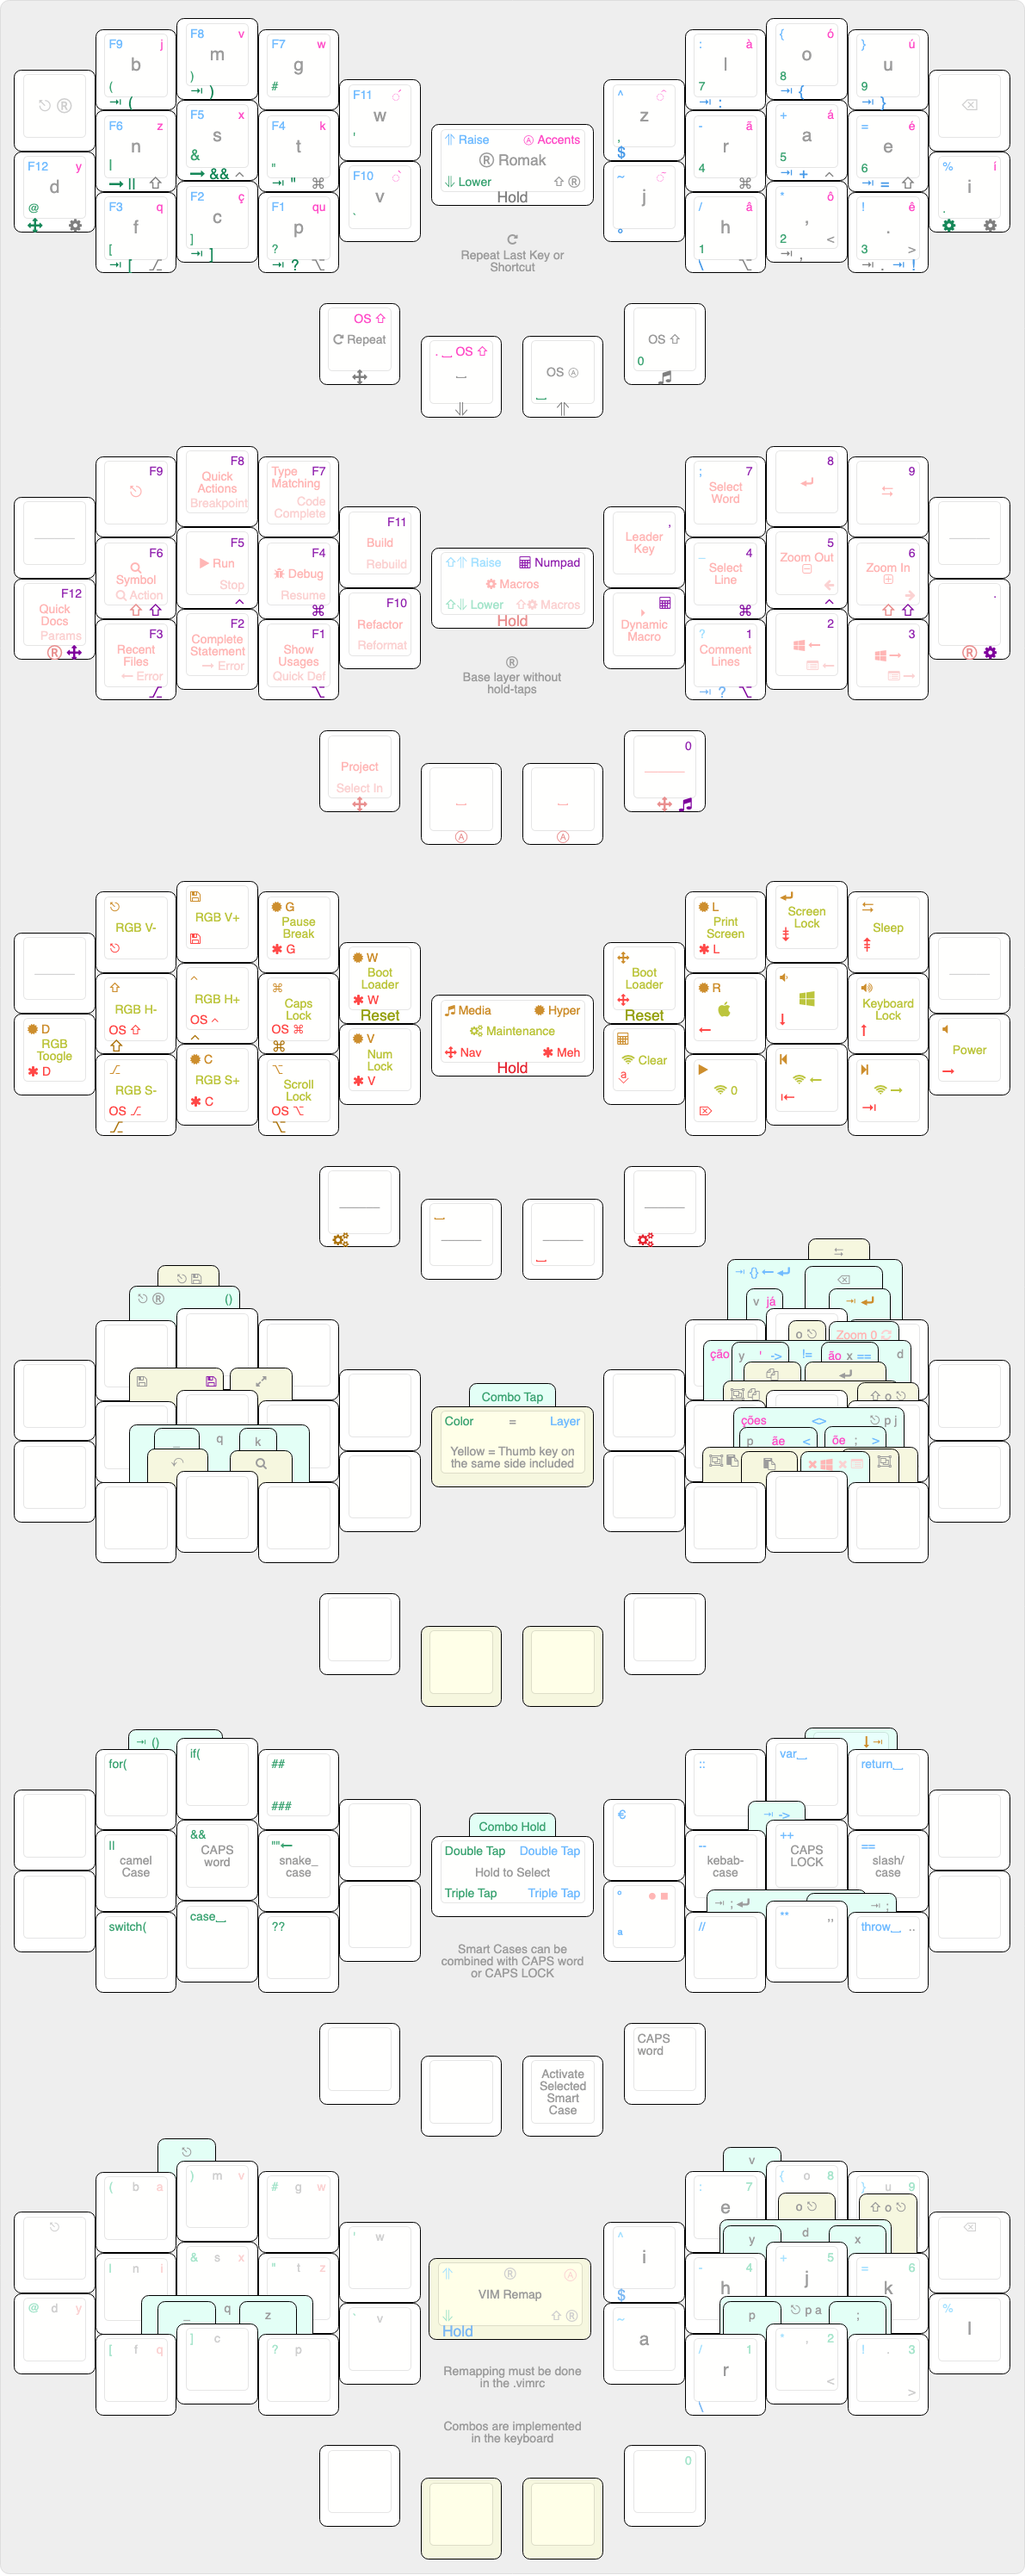
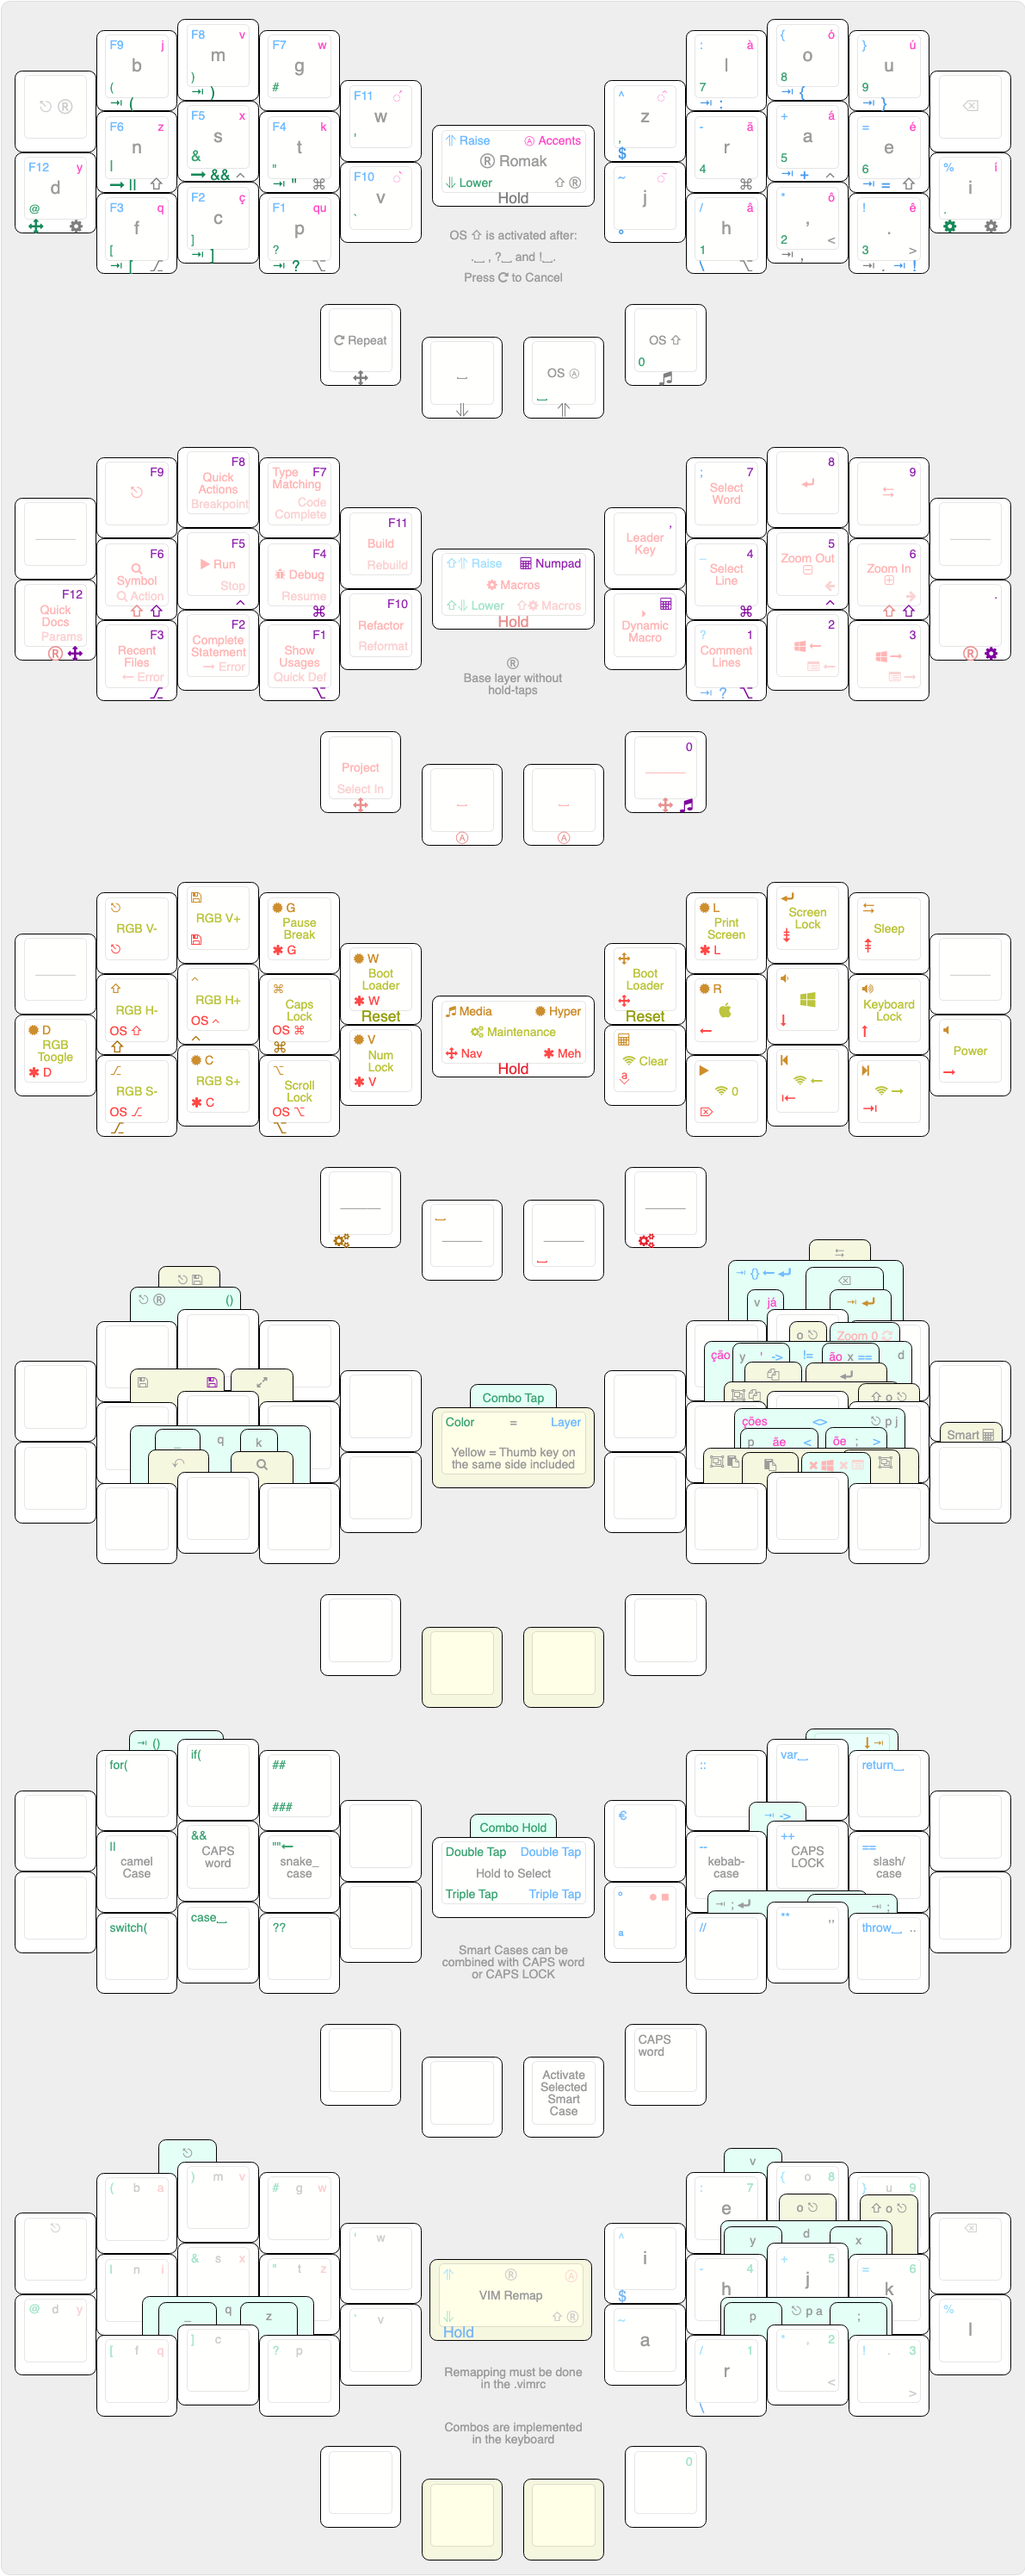
reimplement sentence case and implement numword

diff --git a/src/qmk/users/rafaelromao/features/tapdance.c b/src/qmk/users/rafaelromao/features/tapdance.c
@@ -370,6 +370,8 @@ void td_ques(tap_dance_state_t *state, void *user_data) {
     switch (tap_state.state) {
         case TD_SINGLE_TAP:
             tap_code16(KC_QUES);
+            set_oneshot_layer(_SEN_CASE, ONESHOT_START);
+            reset_oneshot_timer();
             break;
         case TD_DOUBLE_SINGLE_TAP:
         case TD_DOUBLE_TAP:
@@ -379,6 +381,8 @@ void td_ques(tap_dance_state_t *state, void *user_data) {
         case TD_SINGLE_HOLD:
             tap_code(KC_END);
             tap_code16(KC_QUES);
+            set_oneshot_layer(_SEN_CASE, ONESHOT_START);
+            reset_oneshot_timer();
             break;
         default:
             break;
@@ -424,10 +428,14 @@ void td_not(tap_dance_state_t *state, void *user_data) {
     switch (tap_state.state) {
         case TD_SINGLE_TAP:
             tap_code16(KC_EXLM);
+            set_oneshot_layer(_SEN_CASE, ONESHOT_START);
+            reset_oneshot_timer();
             break;
         case TD_SINGLE_HOLD:
             tap_code(KC_END);
             tap_code16(KC_EXLM);
+            set_oneshot_layer(_SEN_CASE, ONESHOT_START);
+            reset_oneshot_timer();
             break;
         case TD_DOUBLE_TAP:
             SEND_STRING("throw ");
@@ -444,10 +452,12 @@ void td_comm(tap_dance_state_t *state, void *user_data) {
             tap_code(KC_COMM);
             break;
         case TD_DOUBLE_SINGLE_TAP:
+        case TD_DOUBLE_TAP:
             tap_code(KC_COMM);
             tap_code(KC_COMM);
             break;
-        case TD_DOUBLE_TAP:
+        case TD_TRIPLE_TAP:
+            tap_code(KC_COMM);
             tap_code(KC_COMM);
             tap_code(KC_COMM);
             break;
@@ -464,8 +474,9 @@ void td_dot(tap_dance_state_t *state, void *user_data) {
     tap_state.state = dance_state(state);
     switch (tap_state.state) {
         case TD_SINGLE_TAP:
-        case TD_DOUBLE_HOLD:
             tap_code(KC_DOT);
+            set_oneshot_layer(_SEN_CASE, ONESHOT_START);
+            reset_oneshot_timer();
             break;
         case TD_DOUBLE_SINGLE_TAP:
         case TD_DOUBLE_TAP:
@@ -480,6 +491,8 @@ void td_dot(tap_dance_state_t *state, void *user_data) {
         case TD_SINGLE_HOLD:
             tap_code16(KC_END);
             tap_code(KC_DOT);
+            set_oneshot_layer(_SEN_CASE, ONESHOT_START);
+            reset_oneshot_timer();
             break;
         default:
             break;

diff --git a/src/qmk/users/rafaelromao/definitions/keymap_blocks.h b/src/qmk/users/rafaelromao/definitions/keymap_blocks.h
@@ -52,8 +52,7 @@
 #define ___________________ACCENT_L1_________           _______ , KC_J    , KC_V    , KC_W
 #define ___________________ACCENT_L2___________________ KC_Y    , KC_Z    , KC_X    , KC_K    , KC_QUOT
 #define           _________ACCENT_L3___________________           KC_Q    , MC_SQ_C , MC_QU   , KC_GRV 
-#define                               ____ACCENT_L4____                               OS_LSFT , MC_NSEN
-#define                               ____FIXED_ACC_L4_                               OS_LSFT , KC_SPC
+#define                               ____ACCENT_L4____                               _______ , _______
 
 #define           _________ACCENT_R1___________________           MC_GV_A , MC_SQ_O , MC_SQ_U , _______
 #define ___________________ACCENT_R2___________________ KC_CIRC , MC_TL_A , MC_SQ_A , MC_SQ_E , MC_SQ_I
@@ -79,6 +78,16 @@
 #define ___________________RAISE_R2____________________ TD_DLR  , KC_MINS , TD_PLUS , TD_EQL  , KC_PERC
 #define ___________________RAISE_R3__________           TD_TILD , TD_SLSH , KC_ASTR , TD_NOT   
 #define ____RAISE_R4_____                               _______ , _______
+
+#define ___________________SEN_CASE____L1____           _______ , _______ , _______ , _______ 
+#define ___________________SEN_CASE____L2______________ _______ , _______ , _______ , _______ , _______
+#define           _________SEN_CASE____L3______________           _______ , _______ , _______ , _______
+#define                               __SEN_CASE____L4_                               MC_CANC , LOW_NSE
+
+#define           _________SEN_CASE____R1______________           _______ , _______ , _______ , _______
+#define ___________________SEN_CASE____R2______________ _______ , _______ , _______ , _______ , _______
+#define ___________________SEN_CASE____R3____           _______ , _______ , _______ , _______ 
+#define __SEN_CASE____R4_                               _______ , _______
 
 #define ___________________MEDIA_L1__________           _______ , MC_ESC  , MC_SAVE , HYPR_G  
 #define ___________________MEDIA_L2____________________ HYPR_D  , KC_LSFT , KC_LCTL , KC_LGUI , HYPR_W 

diff --git a/src/qmk/keyboards/kprepublic/bm40hsrgb/keymaps/rafaelromao/keymap.c b/src/qmk/keyboards/kprepublic/bm40hsrgb/keymaps/rafaelromao/keymap.c
@@ -98,6 +98,17 @@ const uint16_t PROGMEM keymaps[][MATRIX_ROWS][MATRIX_COLS] = {
       XXXXXXX , XXXXXXX , XXXXXXX , ____RAISE_L4_____ ,      XXXXXXX      , ____RAISE_R4_____ , XXXXXXX , XXXXXXX , XXXXXXX),
  // |_______________________________________________________________________________________________________________________|
 
+     [_SEN_CASE] = LAYOUT_wrapper(
+ // |_______________________________________________________________________________________________________________________|
+      ___________________SEN_CASE____L1____ , XXXXXXX , XXXXXXX , XXXXXXX , XXXXXXX , _________SEN_CASE____R1______________ ,
+ // |---------+---------+---------+---------+---------+---------+---------+---------+---------+---------+---------+---------|
+      ___________________SEN_CASE____L2______________ , XXXXXXX , XXXXXXX , ___________________SEN_CASE____R2______________ ,
+ // |---------+---------+---------+---------+---------+---------+---------+---------+---------+---------+---------+---------|
+      XXXXXXX , _________SEN_CASE____L3______________ , XXXXXXX , XXXXXXX , ___________________SEN_CASE____R3____ , XXXXXXX ,
+ // |---------+---------+---------+---------+---------+---------+---------+---------+---------+---------+---------+---------|
+      XXXXXXX , XXXXXXX , XXXXXXX , __SEN_CASE____L4_ ,      XXXXXXX      , __SEN_CASE____R4_ , XXXXXXX , XXXXXXX , XXXXXXX),
+ // |_______________________________________________________________________________________________________________________|
+
      [_FIXED_NAV] = LAYOUT_wrapper(
  // |_______________________________________________________________________________________________________________________|
       ___________________NAVIGATION_L1_____ , XXXXXXX , XXXXXXX , XXXXXXX , XXXXXXX , _________NAVIGATION_R1_______________ ,

diff --git a/src/qmk/keyboards/handwired/rafaelromao/fauxberry/keymaps/rafaelromao/keymap.c b/src/qmk/keyboards/handwired/rafaelromao/fauxberry/keymaps/rafaelromao/keymap.c
@@ -98,6 +98,17 @@ const uint16_t PROGMEM keymaps[][MATRIX_ROWS][MATRIX_COLS] = {
                           ____RAISE_L4_____ , XXXXXXX , XXXXXXX , ____RAISE_R4_____),
  // |___________________________________________________________________________________________________|
 
+     [_SEN_CASE] = LAYOUT_wrapper(
+ // |___________________________________________________________________________________________________|
+      ___________________SEN_CASE____L1____ , XXXXXXX , XXXXXXX , _________SEN_CASE____R1______________ ,
+ // |---------+---------+---------+---------+---------+---------+---------+---------+---------+---------|
+      ___________________SEN_CASE____L2______________ , ___________________SEN_CASE____R2______________ ,
+ // |---------+---------+---------+---------+---------+---------+---------+---------+---------+---------|
+      XXXXXXX , _________SEN_CASE____L3______________ , ___________________SEN_CASE____R3____ , XXXXXXX ,
+ // |---------+---------+---------+---------+---------+---------+---------+---------+---------+---------|
+                          __SEN_CASE____L4_ , XXXXXXX , XXXXXXX , __SEN_CASE____R4_),
+ // |___________________________________________________________________________________________________|
+
      [_FIXED_NAV] = LAYOUT_wrapper(
  // |___________________________________________________________________________________________________|
       ___________________NAVIGATION_L1_____ , XXXXXXX , XXXXXXX , _________NAVIGATION_R1_______________ ,

diff --git a/src/qmk/keyboards/handwired/rafaelromao/hummingbird/keymaps/rafaelromao/keymap.c b/src/qmk/keyboards/handwired/rafaelromao/hummingbird/keymaps/rafaelromao/keymap.c
@@ -98,6 +98,17 @@ const uint16_t PROGMEM keymaps[][MATRIX_ROWS][MATRIX_COLS] = {
                                     ____RAISE_L4_____ , ____RAISE_R4_____),
  // |___________________________________________________________________________________________________|
 
+     [_SEN_CASE] = LAYOUT_wrapper(
+ // |___________________________________________________________________________________________________|
+      ___________________SEN_CASE____L1____           ,           _________SEN_CASE____R1______________ ,
+ // |---------+---------+---------+---------+---------+---------+---------+---------+---------+---------|
+      ___________________SEN_CASE____L2______________ , ___________________SEN_CASE____R2______________ ,
+ // |---------+---------+---------+---------+---------+---------+---------+---------+---------+---------|
+                _________SEN_CASE____L3______________ , ___________________SEN_CASE____R3____           ,
+ // |---------+---------+---------+---------+---------+---------+---------+---------+---------+---------|
+                                    __SEN_CASE____L4_ , __SEN_CASE____R4_),
+ // |___________________________________________________________________________________________________|
+
      [_FIXED_NAV] = LAYOUT_wrapper(
  // |___________________________________________________________________________________________________|
       ___________________NAVIGATION_L1_____           ,           _________NAVIGATION_R1_______________ ,

diff --git a/src/qmk/keyboards/handwired/rafaelromao/rommana/keymaps/rafaelromao/keymap.c b/src/qmk/keyboards/handwired/rafaelromao/rommana/keymaps/rafaelromao/keymap.c
@@ -98,6 +98,17 @@ const uint16_t PROGMEM keymaps[][MATRIX_ROWS][MATRIX_COLS] = {
                                     ____RAISE_L4_____ , ____RAISE_R4_____),
  // |___________________________________________________________________________________________________|
 
+     [_SEN_CASE] = LAYOUT_wrapper(
+ // |___________________________________________________________________________________________________|
+      ___________________SEN_CASE____L1____           ,           _________SEN_CASE____R1______________ ,
+ // |---------+---------+---------+---------+---------+---------+---------+---------+---------+---------|
+      ___________________SEN_CASE____L2______________ , ___________________SEN_CASE____R2______________ ,
+ // |---------+---------+---------+---------+---------+---------+---------+---------+---------+---------|
+                _________SEN_CASE____L3______________ , ___________________SEN_CASE____R3____           ,
+ // |---------+---------+---------+---------+---------+---------+---------+---------+---------+---------|
+                                    __SEN_CASE____L4_ , __SEN_CASE____R4_),
+ // |___________________________________________________________________________________________________|
+
      [_FIXED_NAV] = LAYOUT_wrapper(
  // |___________________________________________________________________________________________________|
       ___________________NAVIGATION_L1_____           ,           _________NAVIGATION_R1_______________ ,

diff --git a/src/qmk/users/rafaelromao/features/custom_oneshot.c b/src/qmk/users/rafaelromao/features/custom_oneshot.c
@@ -74,6 +74,7 @@ bool check_disable_oneshot(uint16_t keycode) {
         case RAI_TAC:
         case ACT_SPC:
         case LOW_SPC:
+        case LOW_NSE:
         case MED_CAS:
         case NAV_REP:
         case OS_LSFT:
@@ -102,12 +103,16 @@ void check_oneshot_timeout(void) {
 
 // Custom oneshot keycodes
 
+void reset_oneshot_timer(void) {
+    custom_oneshots.timer = timer_read();
+}
+
 bool should_send_ctrl(bool isMacOS, bool isOneShotShift) {
     return (!isMacOS && !isOneShotShift) || (isMacOS && isOneShotShift);
 }
 
 process_record_result_t process_custom_oneshot(uint16_t keycode, keyrecord_t *record) {
-    if (record->event.pressed && IS_LAYER_ON(_ACCENT) && check_disable_oneshot(keycode)) {
+    if (record->event.pressed && (IS_LAYER_ON(_ACCENT) || IS_LAYER_ON(_SEN_CASE)) && check_disable_oneshot(keycode)) {
         if (is_string_macro_keycode(keycode)) {
             if (process_accents(keycode, NULL) == PROCESS_RECORD_CONTINUE) {
                 process_macros(keycode, NULL);
@@ -133,7 +138,7 @@ process_record_result_t process_custom_oneshot(uint16_t keycode, keyrecord_t *re
                     if (get_mods() != 0) {
                         set_smart_case_for_mods();
                     } else {
-                        custom_oneshots.timer = timer_read();
+                        reset_oneshot_timer();
                         return PROCESS_RECORD_RETURN_TRUE;
                     }
                 }

diff --git a/src/qmk/users/rafaelromao/features/combos.c b/src/qmk/users/rafaelromao/features/combos.c
@@ -82,6 +82,7 @@ const uint16_t PROGMEM r_rom_bsp_combo[] = {KC_O, KC_U, COMBO_END};
 const uint16_t PROGMEM r_rom_tab_combo[] = {RAI_ACT, KC_O, KC_U, COMBO_END};
 const uint16_t PROGMEM r_rom_sal_combo[] = {RAI_ACT, TD_COMM, TD_DOT, COMBO_END};
 const uint16_t PROGMEM r_rom_sco_combo[] = {TD_COMM, TD_DOT, COMBO_END};
+const uint16_t PROGMEM r_rom_num_combo[] = {RAI_ACT, MAC_KCI, COMBO_END};
 #ifndef SAVE_MEMORY
 const uint16_t PROGMEM r_rom_epa_combo[] = {LALTT_H, TD_COMM, TD_DOT, COMBO_END};
 #endif
@@ -102,7 +103,8 @@ combo_t key_combos[] = {
     COMBO(r_acc_ao_combo, MC_AO),     COMBO(r_acc_cao_combo, MC_CAO),  COMBO(r_acc_oe_combo, MC_OE),
     COMBO(r_acc_coes_combo, MC_COES), COMBO(r_mac_z0r_combo, MC_Z0R),  COMBO(r_mac_clo_combo, MC_CLOS),
     COMBO(r_rom_cop_combo, MC_COPY),  COMBO(r_rom_scp_combo, MC_SCOP), COMBO(r_rom_sco_combo, TD_SCLE),
-    COMBO(r_low_sco_combo, TD_SCLE),  COMBO(l_rom_usc_combo, KC_UNDS), COMBO(l_rom_ful_combo, MC_FULL),
+    COMBO(r_rom_num_combo, TG_NUMC),  COMBO(r_low_sco_combo, TD_SCLE), COMBO(l_rom_usc_combo, KC_UNDS),
+    COMBO(l_rom_ful_combo, MC_FULL),
 #ifndef SAVE_MEMORY
     COMBO(r_rom_epa_combo, TD_EPA),
 #endif

diff --git a/src/qmk/users/rafaelromao/features/smart_case.c b/src/qmk/users/rafaelromao/features/smart_case.c
@@ -28,6 +28,7 @@ void disable_smart_case(void) {
     if (host_keyboard_led_state().caps_lock) {
         tap_code(KC_CAPS);
     }
+    layer_move(_ROMAK);
 }
 
 void check_disable_smart_case(void) {
@@ -53,6 +54,10 @@ void enable_capslock(void) {
 }
 
 void set_smart_case(smart_case_type_t smart_case_types) {
+    if (smart_case_types & NUM_CASE) {
+        disable_smart_case();
+        layer_on(_NUMPAD);
+    }
     if (smart_case_types & CAPS_LOCK) {
         enable_capslock();
         return;
@@ -143,6 +148,11 @@ process_record_result_t process_smart_case(uint16_t keycode, keyrecord_t *record
                     disable_smart_case();
                     return PROCESS_RECORD_RETURN_FALSE;
                 } else {
+                    if (has_smart_case(NUM_CASE)) {
+                        tap_code(KC_SPC);
+                        disable_smart_case();
+                        return PROCESS_RECORD_RETURN_FALSE;
+                    }
                     spacing = true;
                 }
                 if (has_smart_case(WORD_CASE) && !(has_smart_case(SNAKE_CASE)) && !(has_smart_case(CAMEL_CASE))) {

diff --git a/src/qmk/users/rafaelromao/definitions/keycodes.h b/src/qmk/users/rafaelromao/definitions/keycodes.h
@@ -82,7 +82,7 @@ enum {
     MC_SECRET_1,
 
     // Toggle codes
-    OS_ACNT, TG_MAC, TG_WIN, TG_CASE, TG_ACNT, 
+    OS_ACNT, TG_MAC, TG_WIN, TG_CASE, TG_ACNT,
 
     // Select Word/Line
     MC_SELW, MC_SELL, 
@@ -107,7 +107,7 @@ enum {
     STR_MACRO_START,
     
     MC_BTIC, MC_DQUO, MC_SQUO, MC_CIRC, MC_TILD, REPEAT,
-    MC_ENT, MC_TAB, MC_ESC, MC_ESCC, MC_NSEN, 
+    MC_ENT, MC_TAB, MC_ESC, MC_ESCC, MC_NSEN, MC_CANC, TG_NUMC,
     MC_ESAV, MC_SENT, MC_CUR, MC_SAR, MC_DEQ, MC_NEQ, 
     MC_DAND, MC_DPIP, MC_OESC, MC_SOES, MC_LTGT, MC_EPA,
 
@@ -193,6 +193,7 @@ enum {
 
 #define ACT_SPC LT(_FIXED_ACCENT, KC_SPC)
 #define LOW_SPC LT(_LOWER, KC_SPC)
+#define LOW_NSE LT(_LOWER, MC_NSEN)
 #define RAI_TAC LT(_RAISE, TG_ACNT)
 #define RAI_SPC LT(_RAISE, KC_SPC)
 #define RAI_ACT OSL(_ACCENT) // Hold behavior is implemented in intercepted code

diff --git a/src/qmk/users/rafaelromao/features/common_shortcuts.c b/src/qmk/users/rafaelromao/features/common_shortcuts.c
@@ -173,6 +173,19 @@ process_record_result_t process_common_shortcuts(uint16_t keycode, keyrecord_t *
             process_common_shortcuts(MC_SAVE, NULL);
             process_common_shortcuts(MC_ESC, NULL);
             return PROCESS_RECORD_RETURN_FALSE;
+
+            // Cancel
+
+        case MC_CANC:
+            disable_smart_case();
+            clear_shift();
+            return PROCESS_RECORD_RETURN_FALSE;
+
+            // NumWord
+
+        case TG_NUMC:
+            set_smart_case(NUM_CASE);
+            return PROCESS_RECORD_RETURN_FALSE;
     }
 
     return PROCESS_RECORD_CONTINUE;

diff --git a/src/qmk/users/rafaelromao/features/taphold.c b/src/qmk/users/rafaelromao/features/taphold.c
@@ -78,6 +78,13 @@ process_record_result_t process_taphold(uint16_t keycode, keyrecord_t *record) {
             }
             break;
 
+        case LOW_NSE:
+            if (record->event.pressed && record->tap.count) {
+                process_macros(MC_NSEN, NULL);
+                return PROCESS_RECORD_RETURN_FALSE;
+            }
+            break;
+
         case NMO_DOC:
             if (record->event.pressed && record->tap.count) {
                 process_macros(MC_QDOC, NULL);
